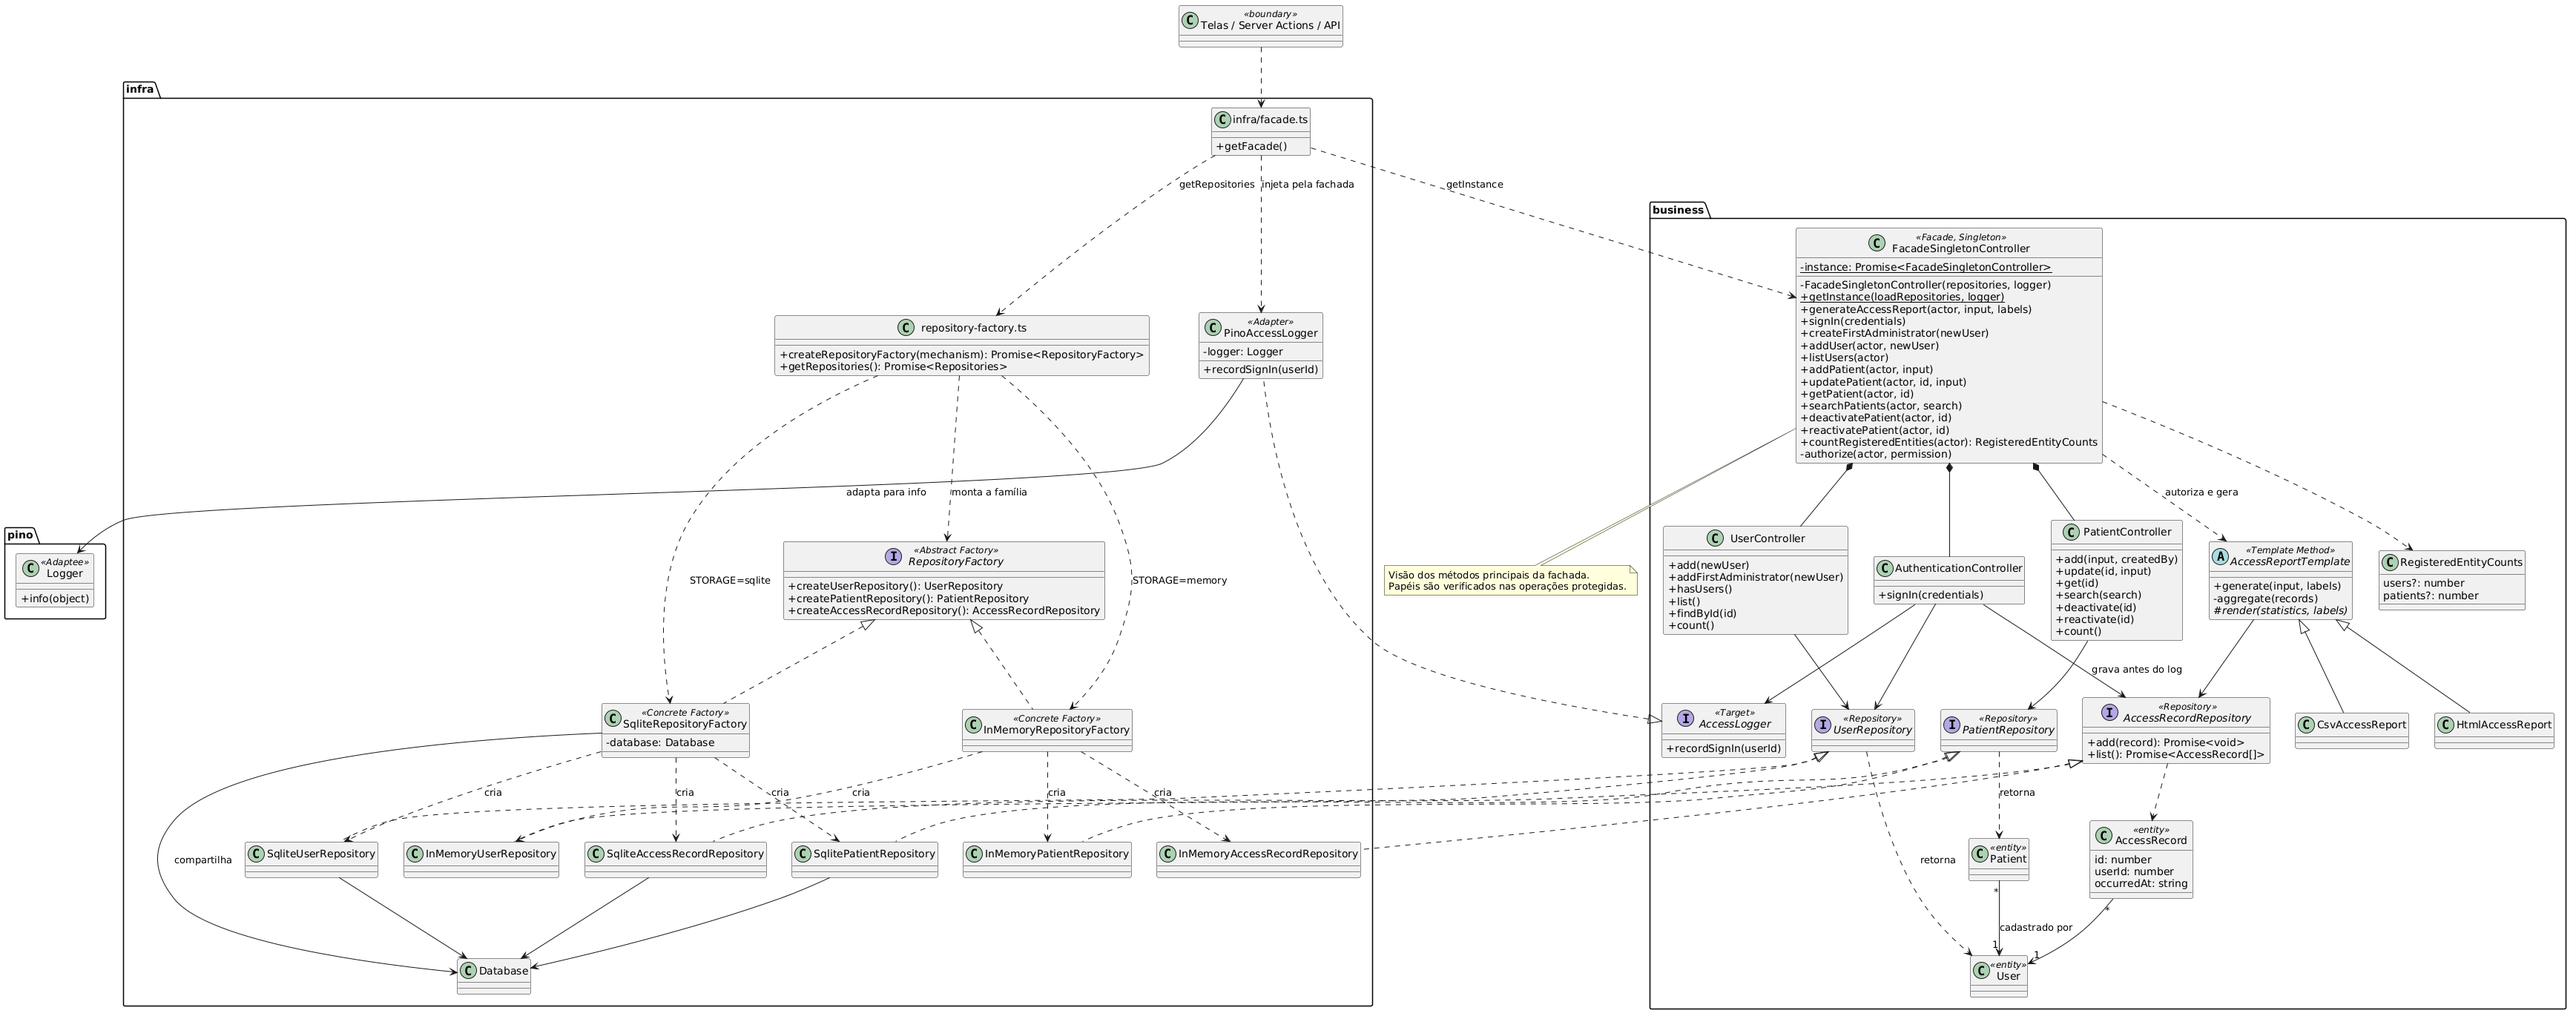
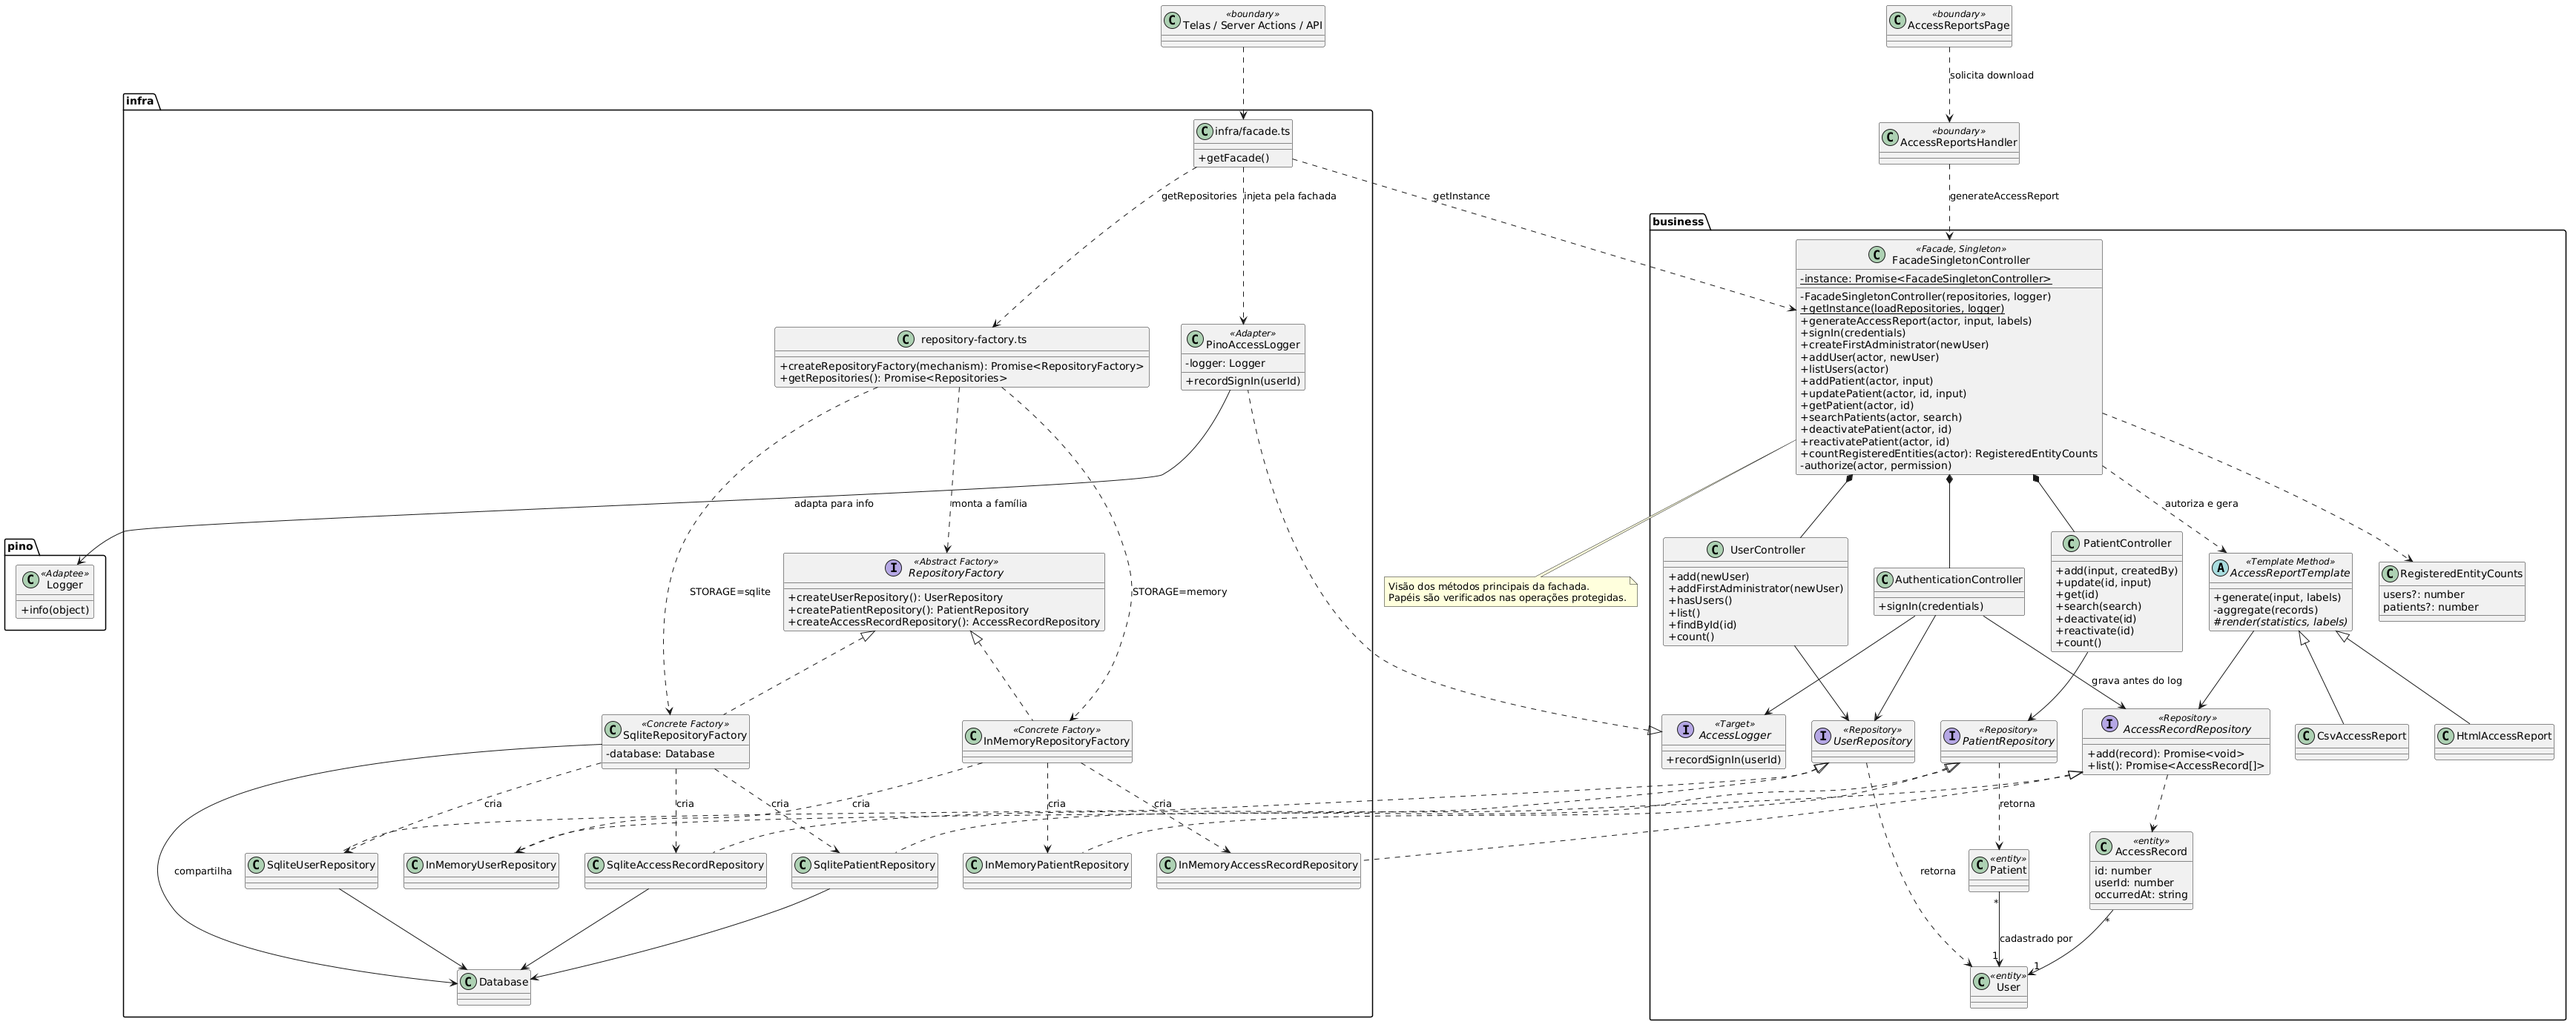
docs(reports): document downloads and complete sprint four report tasks

diff --git a/docs/04-casos-de-uso/README.md b/docs/04-casos-de-uso/README.md
@@ -67,7 +67,7 @@ flowchart LR
 
 Para o diagrama continuar legível, só algumas setas «include» até UC04 aparecem: **todos os casos de uso, exceto UC14, incluem UC04 Autenticar**, porque toda funcionalidade exige sessão (NF-SEG-02). O UC14 é usado por um sistema externo, não por uma pessoa.
 
-Quem acessa cada caso de uso segue a matriz de permissões do NF-SEG-02: o Administrador gerencia usuários e pacientes; o Recepcionista gerencia pacientes; o Médico e o Paciente acessam apenas a página inicial até que os casos de uso de agenda e atendimento sejam implementados.
+Quem acessa cada caso de uso segue a matriz de permissões do NF-SEG-02: o Administrador gerencia usuários e pacientes e gera relatórios de acesso; o Recepcionista gerencia pacientes; o Médico e o Paciente acessam apenas a página inicial até que os casos de uso de agenda e atendimento sejam implementados.
 
 ## Índice e rastreabilidade
 
@@ -86,7 +86,7 @@ Quem acessa cada caso de uso segue a matriz de permissões do NF-SEG-02: o Admin
 | UC11 Reagendar consulta | Recepcionista, Paciente | RF03, RF05 | Só na visão | — |
 | UC12 Gerenciar profissionais e clínica | Administrador | RF02 | Só na visão | — |
 | UC13 Gerenciar comunicações e lembretes | Serviço de mensagens | RF03, RF05 | Só na visão | — |
-| UC15 Gerar relatório de acessos | Administrador | RF18 | Business implementado; download na próxima camada | — |
+| UC15 Gerar relatório de acessos | Administrador | RF18 | Implementado (`/access-reports`, `GET /api/access-reports`) | — |
 | UC14 Exportar paciente em FHIR | Sistema de saúde externo | NF-INT-01 | Só na visão | — |
 
 As telas e as rotas de API chamam a camada de negócio pela fachada `FacadeSingletonController` (`src/modules/facade/`), que verifica a permissão do papel antes de cada operação. As telas citadas estão em [`06-interface/`](../06-interface/README.md).
@@ -95,4 +95,4 @@ As telas e as rotas de API chamam a camada de negócio pela fachada `FacadeSingl
 
 **UC04 — Registro de acesso (RF17):** depois de validar as credenciais, o controle persiste ID do usuário e data/hora UTC antes do log e da abertura da sessão. Recusas não gravam acessos; falhas de persistência exibem indisponibilidade (API 503, `STORAGE_UNAVAILABLE`) sem abrir sessão. O Adapter Pino permanece independente: uma exceção síncrona do log não apaga o registro nem impede o login. O cadastro inicial do administrador não conta como acesso; um registro indica credenciais aceitas, mesmo se a criação posterior do cookie falhar.
 
-**UC15 — Gerar relatório de acessos:** o Administrador informa início inclusivo, fim exclusivo (UTC) e formato HTML ou CSV. A fachada verifica a permissão, valida o período, calcula acessos e último acesso por ID de usuário e total geral. Períodos sem acessos retornam total zero; erros de início, fim, ordem ou formato são específicos; falhas de persistência são propagadas. A tela e o download serão adicionados na próxima camada.
+**UC15 — Gerar relatório de acessos:** o Administrador informa início inclusivo, fim exclusivo (UTC) e formato HTML ou CSV. A fachada verifica a permissão, valida o período, calcula acessos e último acesso por ID de usuário e total geral. Períodos sem acessos retornam total zero; erros de início, fim, ordem ou formato são específicos; falhas de persistência são propagadas. A tela `/access-reports` oferece período e formato; `GET /api/access-reports?start=...&end=...&format=html|csv` devolve anexo sem cache. API sem sessão retorna 401; sem permissão, 403; validação, 400; armazenamento indisponível, 503.

diff --git a/docs/08-projeto.md b/docs/08-projeto.md
@@ -83,6 +83,7 @@ classDiagram
             -PatientController patients
             -FacadeSingletonController(repositories, logger)
             +getInstance(loadRepositories, logger) Promise~FacadeSingletonController~$
+            +generateAccessReport(actor, input, labels) Promise~ReportFile~
             +signIn(credentials) Promise~User~
             +findUser(id) Promise~User~
             +hasUsers() Promise~boolean~
@@ -117,6 +118,7 @@ classDiagram
             <<enumeration>>
             MANAGE_USERS
             MANAGE_PATIENTS
+            GENERATE_ACCESS_REPORTS
         }
         class AccessDeniedError {
             <<exception>>
@@ -617,4 +619,4 @@ A montagem em `infra/facade.ts` injeta o Adapter pela fachada. O controle transm
 
 ## Relatórios de acesso — Template Method
 
-`modules/access-reports/` contém o algoritmo comum e os formatos HTML/CSV. A fachada recebe período, formato e textos traduzidos e autoriza `GENERATE_ACCESS_REPORTS` apenas para ADMIN. O intervalo UTC é `[início, fim)`; datas `YYYY-MM-DD` representam meia-noite UTC e timestamps aceitos terminam em `Z`. Repetições contam separadamente, usuários sem acessos no período não aparecem, e o último acesso é o máximo cronológico. O algoritmo consulta somente os registros de acesso, sem credenciais ou dados de pacientes. A próxima camada adicionará tela e download.
+`modules/access-reports/` contém o algoritmo comum e os formatos HTML/CSV. A fachada recebe período, formato e textos traduzidos e autoriza `GENERATE_ACCESS_REPORTS` apenas para ADMIN. O intervalo UTC é `[início, fim)`; datas `YYYY-MM-DD` representam meia-noite UTC e timestamps aceitos terminam em `Z`. Repetições contam separadamente, usuários sem acessos no período não aparecem, e o último acesso é o máximo cronológico. O algoritmo consulta somente os registros de acesso, sem credenciais ou dados de pacientes. A tela `/access-reports` possui campos de início/fim UTC e formato, exibidos apenas ao Administrador. A API `GET /api/access-reports` chama exclusivamente a fachada e resolve o idioma com `resolveRequestLocale` por `translatorFor`. O anexo usa MIME do formato, nome fixo, `Cache-Control: private, no-store` e textos traduzidos. Falhas são JSON `{ error: { code, message } }`, com status 400/401/403/503.

diff --git a/docs/05-analise.md b/docs/05-analise.md
@@ -23,6 +23,10 @@ classDiagram
     class Papel { <<entity>> }
     class RegistroDeAcesso { <<entity>> }
     class ControleRelatorios { <<control>> }
+    class TelaRelatorios { <<boundary>> }
+    class RotaRelatorios { <<boundary>> }
+    TelaRelatorios ..> ControleRelatorios
+    RotaRelatorios ..> ControleRelatorios
     ControleRelatorios ..> RegistroDeAcesso : calcula estatísticas
     ControleAutenticacao ..> RegistroDeAcesso : registra credenciais aceitas
     RegistroDeAcesso "*" --> "1" Usuario
@@ -94,4 +98,4 @@ O modelo de domínio completo da clínica (Paciente, Profissional, Agenda, Agend
 | TelaPacientes | páginas `/patients`, `/patients/new` e `/patients/<id>` (`src/app/[locale]/(app)/patients/`) | Implementado |
 | RotaDePacientes | rotas `/api/patients` (`src/app/api/patients/route.ts`) e `/api/patients/[id]` (`src/app/api/patients/[id]/route.ts`) | Implementado |
 
-UC15 usa `ControleRelatorios`, realizado por `FacadeSingletonController.generateAccessReport` e `AccessReportTemplate`. A fachada autoriza o Administrador antes da leitura dos acessos; o controle gera as mesmas estatísticas para HTML e CSV (RF18). A fronteira de download é a próxima camada da stack.
+UC15 usa `ControleRelatorios`, realizado por `FacadeSingletonController.generateAccessReport` e `AccessReportTemplate`. A fachada autoriza o Administrador antes da leitura dos acessos; o controle gera as mesmas estatísticas para HTML e CSV (RF18). As fronteiras `TelaRelatorios` (`/access-reports`) e `RotaRelatorios` (`GET /api/access-reports`) oferecem o download ao Administrador.

diff --git a/openspec/changes/relatorio-de-acessos/design.md b/openspec/changes/relatorio-de-acessos/design.md
@@ -4,4 +4,6 @@ O controle de autenticação grava `{ userId, occurredAt }` em `AccessRecordRepo
 
 Falhas de SQLite viram `AccessRecordPersistenceError`. A fronteira informa indisponibilidade e não abre sessão; falhas síncronas do log continuam de melhor esforço. Um registro significa credenciais aceitas: se a criação posterior do cookie falhar, ele permanece.
 
-Próxima camada: Template Method em business com coleta de registros, filtro por período UTC `[início, fim)`, agregação e renderização HTML/CSV. Somente Administrador poderá gerar o relatório pela fachada. Dados exibidos: ID do usuário, quantidade de acessos e último acesso; total geral de acessos. Sem credenciais ou dados de pacientes. Decisão de integração registrada no ADR-0010.
+Camada de geração: Template Method em business com coleta de registros, filtro por período UTC `[início, fim)`, agregação e renderização HTML/CSV. Somente Administrador pode gerar o relatório pela fachada. Dados exibidos: ID do usuário, quantidade de acessos e último acesso; total geral de acessos. Sem credenciais ou dados de pacientes. Decisão de integração registrada no ADR-0010.
+
+A tela `/access-reports` usa `GET /api/access-reports`, que resolve o idioma da requisição e chama somente a fachada. A resposta de sucesso é um anexo HTML/CSV sem cache; as falhas usam códigos e mensagens traduzidos.

diff --git a/openspec/changes/relatorio-de-acessos/proposal.md b/openspec/changes/relatorio-de-acessos/proposal.md
@@ -6,11 +6,11 @@ Os logs em stdout não garantem dados consultáveis para as estatísticas de ace
 ## What Changes
 - Persistir cada autenticação aceita em RAM ou SQLite via Repository e Abstract Factory (esta branch).
 - Manter o Adapter Pino como log operacional independente.
-- Gerar relatórios HTML e CSV de acessos por período usando Template Method na camada business (próxima branch).
+- Gerar relatórios HTML e CSV de acessos por período usando Template Method na camada business (camadas de geração e download).
 
 ## Capabilities
 ### New Capabilities
-- `acessos`: RF17 (registro de acesso) e RF18 (relatórios, planejado).
+- `acessos`: RF17 (registro de acesso) e RF18 (relatórios).
 ### Modified Capabilities
 - Nenhuma.
 
@@ -18,4 +18,4 @@ Os logs em stdout não garantem dados consultáveis para as estatísticas de ace
 Tabela `access_records`, migração, família de repositórios, autenticação, tratamento de indisponibilidade e documentação. Sem mudança nos campos do login.
 
 ## Fora do escopo
-Nesta branch: geração e download de relatórios. Na mudança completa: navegação por páginas, IP, tentativas recusadas, logout e cadastro inicial do administrador como acesso.
+Na mudança completa: navegação por páginas, IP, tentativas recusadas, logout e cadastro inicial do administrador como acesso.

diff --git a/openspec/specs/rnf/seguranca/spec.md b/openspec/specs/rnf/seguranca/spec.md
@@ -21,7 +21,7 @@ O sistema NÃO DEVE exibir a senha em listagens, respostas ou mensagens de erro,
 - **THEN** a mensagem de erro descreve a regra violada sem repetir a senha digitada
 
 ### Requirement: NF-SEG-02 — Autenticação e autorização por papel
-O sistema DEVE exigir autenticação por login e senha para qualquer funcionalidade, exceto a tela de login, e DEVE liberar a cada usuário apenas as funcionalidades do seu papel (RBAC), seguindo o princípio do menor privilégio (NF02 do documento de requisitos): o Administrador gerencia usuários e pacientes, o Recepcionista gerencia pacientes, e o Médico e o Paciente acessam apenas a página inicial.
+O sistema DEVE exigir autenticação por login e senha para qualquer funcionalidade, exceto a tela de login, e DEVE liberar a cada usuário apenas as funcionalidades do seu papel (RBAC), seguindo o princípio do menor privilégio (NF02 do documento de requisitos): o Administrador gerencia usuários e pacientes e gera relatórios de acesso, o Recepcionista gerencia pacientes, e o Médico e o Paciente acessam apenas a página inicial.
 
 **Prioridade:** Essencial
 **Casos de uso:** UC04, UC05, UC06

diff --git a/docs/07-arquitetura/adr/0011-template-method-de-relatorios.md b/docs/07-arquitetura/adr/0011-template-method-de-relatorios.md
@@ -14,4 +14,4 @@
 
 Um novo formato implementa `render` e reutiliza o mesmo algoritmo, evitando divergências estatísticas entre formatos. O resultado contém conteúdo, tipo de mídia e extensão. Períodos vazios geram total zero; períodos inválidos geram erros específicos por campo; falhas de armazenamento são propagadas, sem emitir relatório vazio como se fosse válido.
 
-Nesta primeira camada, a geração é acessível pela fachada; a fronteira de download e sua tela serão adicionadas na próxima camada da stack. A coleta filtra os registros em memória após `list`; consultas por período no banco poderão ser introduzidas caso o volume exija.
+A geração é acessível pela fachada; `/access-reports` permite baixar o arquivo via `GET /api/access-reports`, com textos traduzidos, validação e proteção por papel. A API fornece `Content-Disposition: attachment` e desabilita cache. A coleta filtra os registros em memória após `list`; consultas por período no banco poderão ser introduzidas caso o volume exija.

diff --git a/openspec/changes/relatorio-de-acessos/specs/acessos/spec.md b/openspec/changes/relatorio-de-acessos/specs/acessos/spec.md
@@ -63,3 +63,9 @@ O sistema DEVE permitir ao Administrador gerar relatórios HTML e CSV por perío
 #### Scenario: Período inválido
 - **WHEN** o início ou o fim é inválido ou o início não antecede o fim
 - **THEN** o sistema recusa a geração com erro específico de período
+
+#### Scenario: Download protegido e traduzido
+- **GIVEN** um Administrador com idioma escolhido
+- **WHEN** solicita um relatório válido em `/access-reports` ou `GET /api/access-reports`
+- **THEN** recebe um anexo HTML/CSV com textos no idioma da requisição e sem cache compartilhado
+- **AND** requisições sem sessão recebem 401 e usuários sem permissão recebem 403

diff --git a/openspec/specs/acessos/spec.md b/openspec/specs/acessos/spec.md
@@ -68,3 +68,9 @@ O sistema DEVE permitir ao Administrador gerar relatórios HTML e CSV por perío
 #### Scenario: Período inválido
 - **WHEN** o início ou o fim é inválido ou o início não antecede o fim
 - **THEN** o sistema recusa a geração com erro específico de período
+
+#### Scenario: Download protegido e traduzido
+- **GIVEN** um Administrador com idioma escolhido
+- **WHEN** solicita um relatório válido em `/access-reports` ou `GET /api/access-reports`
+- **THEN** recebe um anexo HTML/CSV com textos no idioma da requisição e sem cache compartilhado
+- **AND** requisições sem sessão recebem 401 e usuários sem permissão recebem 403

diff --git a/openspec/changes/relatorio-de-acessos/tasks.md b/openspec/changes/relatorio-de-acessos/tasks.md
@@ -5,8 +5,8 @@
 - [x] 1.4 Testar contratos, persistência em arquivo, recusas e indisponibilidade.
 - [x] 1.5 Atualizar casos de uso, diagramas e ADR.
 
-## 2. Relatórios (próxima branch)
+## 2. Relatórios
 - [x] 2.1 Implementar RF18 com Template Method, formatos HTML e CSV.
-- [ ] 2.2 Expor geração pela fachada com permissão de Administrador e download.
+- [x] 2.2 Expor geração pela fachada com permissão de Administrador e download.
 - [x] 2.3 Testar filtros, estatísticas, formatos e autorização.
-- [ ] 2.4 Atualizar diagramas e tabela de padrões com Template Method.
+- [x] 2.4 Atualizar diagramas e tabela de padrões com Template Method.
